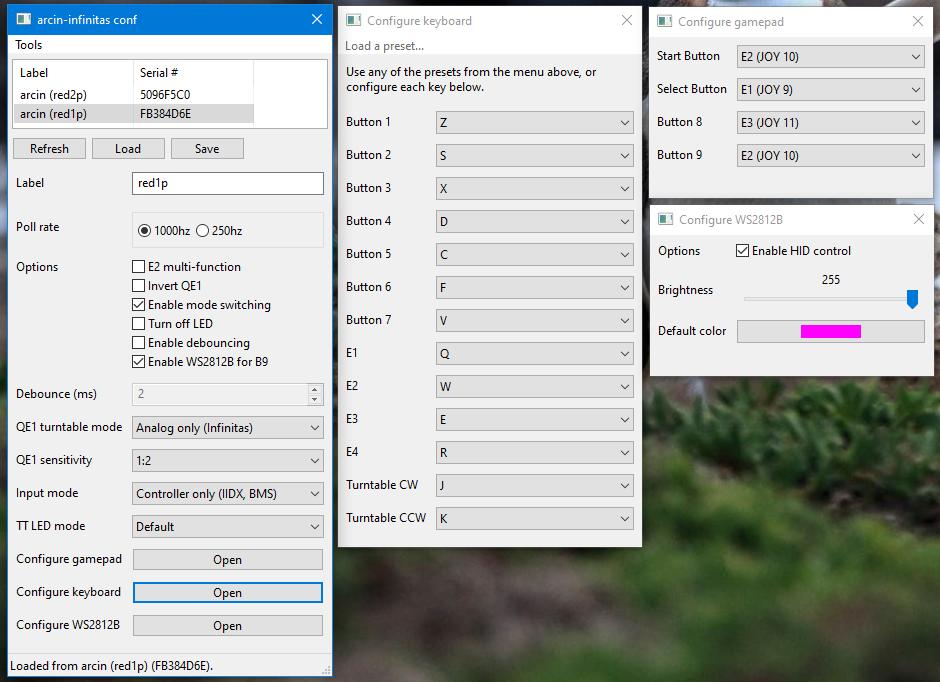
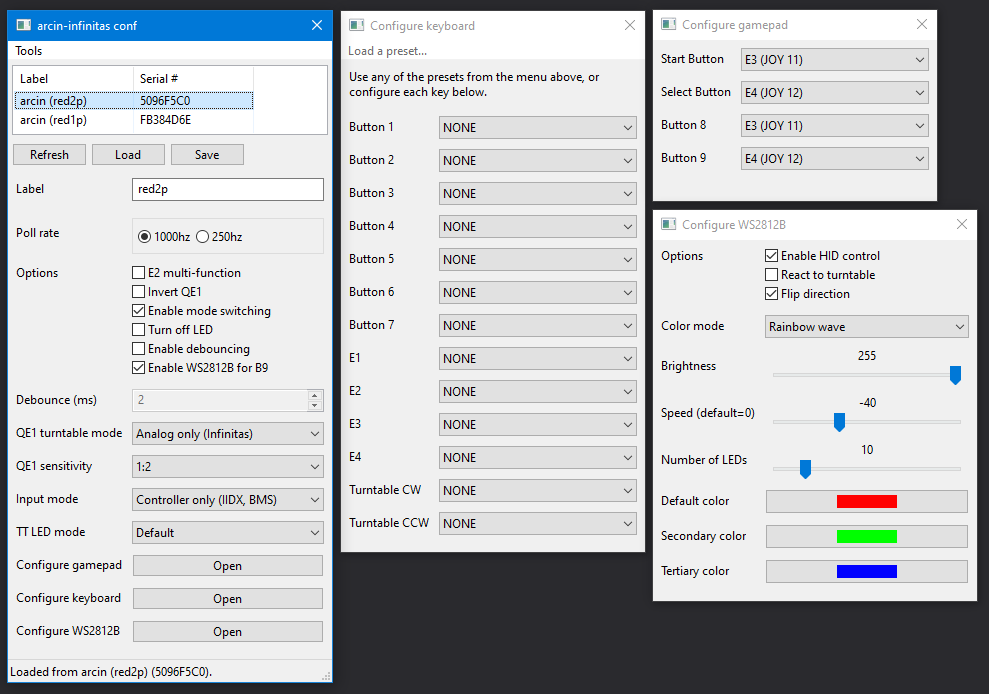
Add more RGB settings (#3)

diff --git a/main.py b/main.py
@@ -14,12 +14,22 @@ ArcinConfig = namedtuple(
     "label flags qe1_sens qe2_sens " +
     "debounce_ticks keycodes " +
     "remap_start_sel remap_b8_b9 "+
-    "rgb_flags rgb_red rgb_green rgb_blue rgb_darkness")
+    "rgb_flags " +
+    "rgb_red rgb_green rgb_blue " +
+    "rgb_darkness " +
+    "rgb_red_2 rgb_green_2 rgb_blue_2 " +
+    "rgb_red_3 rgb_green_3 rgb_blue_3 " +
+    "rgb_mode rgb_num_leds rgb_speed"
+    )
 
-RgbConfig = namedtuple("RgbConfig", "flags red green blue darkness")
+Rgb = namedtuple("Rgb", "r g b")
+
+RgbConfig = namedtuple(
+    "RgbConfig", "flags rgb1 darkness rgb2 rgb3 mode num_leds speed")
 
 ARCIN_CONFIG_VALID_KEYCODES = 13
 ARCIN_RGB_MAX_DARKNESS = 255
+ARCIN_RGB_NUM_LEDS_MAX = 60
 
 # Infinitas controller VID/PID = 0x1ccf / 0x8048
 VID = 0x1ccf
@@ -38,11 +48,14 @@ STRUCT_FMT_EX = (
     "B" +   # uint8 remap_b8_b9
     "2x"+   # uint8 reserved[2]
     "B" +   # uint8 rgb_flags
-    "B" +   # uint8 red
-    "B" +   # uint8 green
-    "B" +   # uint8 blue
+    "BBB" + # uint8 red, green, blue (primary)
     "B" +   # uint8 rgb_darkness
-    "15x")  # uint8 reserved[15]
+    "BBB" + # uint8 red, green, blue (secondary)
+    "BBB" + # uint8 red, green, blue (tertiary)
+    "B" +   # uint8 rgb_mode
+    "B" +   # uint8 rgb_num_leds
+    "b" +   # int8 rgb_speed
+    "6x")  # uint8 reserved[6]
 
 TT_OPTIONS = [
     "Analog only (Infinitas)",
@@ -94,6 +107,16 @@ LED_OPTIONS = [
     "HID-controlled",
 ]
 
+RGB_MODE_OPTIONS = [
+    "Single-color",
+    "Tricolor",
+    "Single-color Rainbow",
+    "Spiral rainbow",
+    "Rainbow wave",
+    "Single-color fade",
+    "Two-color fade",
+]
+
 ARCIN_CONFIG_FLAG_SEL_MULTI_TAP          = (1 << 0)
 ARCIN_CONFIG_FLAG_INVERT_QE1             = (1 << 1)
 # removed in favor of complete remapping of E buttons
@@ -111,6 +134,8 @@ ARCIN_CONFIG_FLAG_TT_LED_HID             = (1 << 12)
 ARCIN_CONFIG_FLAG_WS2812B                = (1 << 13)
 
 ARCIN_RGB_FLAG_ENABLE_HID                = (1 << 0)
+ARCIN_RGB_FLAG_REACT_TO_TT               = (1 << 1)
+ARCIN_RGB_FLAG_FLIP_DIRECTION            = (1 << 2)
 
 def get_devices():
     hid_filter = hid.HidDeviceFilter(vendor_id=VID, product_id=PID)
@@ -163,7 +188,17 @@ def save_to_device(device, conf):
             conf.rgb_red,
             conf.rgb_green,
             conf.rgb_blue,
-            conf.rgb_darkness)
+            conf.rgb_darkness,
+            conf.rgb_red_2,
+            conf.rgb_green_2,
+            conf.rgb_blue_2,
+            conf.rgb_red_3,
+            conf.rgb_green_3,
+            conf.rgb_blue_3,
+            conf.rgb_mode,
+            conf.rgb_num_leds,
+            conf.rgb_speed
+            )
     except:
         return (False, "Format error")
 
@@ -631,14 +666,22 @@ These only take in effect while plugged in; they are reset when unplugged""")
         remap_b8_b9 = (self.remap[2] << 4) | self.remap[3]
 
         rgb_flags = 0
-        rgb_red = 0
-        rgb_green = 0
-        rgb_blue = 0
         rgb_darkness = 0
+        rgb_primary = Rgb(0, 0, 0)
+        rgb_secondary = Rgb(0, 0, 0)
+        rgb_tertiary = Rgb(0, 0, 0)
+        rgb_mode = 0
+        rgb_num_leds = ARCIN_RGB_NUM_LEDS_MAX
+        rgb_speed = 0
         if self.rgb_config:
             rgb_flags = self.rgb_config.flags
-            rgb_red, rgb_green, rgb_blue = self.rgb_config.red, self.rgb_config.green, self.rgb_config.blue
+            rgb_primary = self.rgb_config.rgb1
             rgb_darkness = self.rgb_config.darkness
+            rgb_secondary = self.rgb_config.rgb2
+            rgb_tertiary = self.rgb_config.rgb3
+            rgb_mode = self.rgb_config.mode
+            rgb_num_leds = self.rgb_config.num_leds
+            rgb_speed = self.rgb_config.speed
 
         conf = ArcinConfig(
             label=title,
@@ -650,10 +693,19 @@ These only take in effect while plugged in; they are reset when unplugged""")
             remap_start_sel=remap_start_sel,
             remap_b8_b9=remap_b8_b9,
             rgb_flags=rgb_flags,
-            rgb_red=rgb_red,
-            rgb_green=rgb_green,
-            rgb_blue=rgb_blue,
-            rgb_darkness=rgb_darkness
+            rgb_red=rgb_primary.r,
+            rgb_green=rgb_primary.g,
+            rgb_blue=rgb_primary.b,
+            rgb_darkness=rgb_darkness,
+            rgb_red_2=rgb_secondary.r,
+            rgb_green_2=rgb_secondary.g,
+            rgb_blue_2=rgb_secondary.b,
+            rgb_red_3=rgb_tertiary.r,
+            rgb_green_3=rgb_tertiary.g,
+            rgb_blue_3=rgb_tertiary.b,
+            rgb_mode=rgb_mode,
+            rgb_num_leds=rgb_num_leds,
+            rgb_speed=rgb_speed
         )
 
         return conf
@@ -727,7 +779,15 @@ These only take in effect while plugged in; they are reset when unplugged""")
         self.remap[3] = conf.remap_b8_b9 & 0xF
 
         self.rgb_config = RgbConfig(
-            conf.rgb_flags, conf.rgb_red, conf.rgb_green, conf.rgb_blue, conf.rgb_darkness)
+            conf.rgb_flags,
+            Rgb(conf.rgb_red, conf.rgb_green, conf.rgb_blue),
+            conf.rgb_darkness,
+            Rgb(conf.rgb_red_2, conf.rgb_green_2, conf.rgb_blue_2),
+            Rgb(conf.rgb_red_3, conf.rgb_green_3, conf.rgb_blue_3),
+            conf.rgb_mode,
+            conf.rgb_num_leds,
+            conf.rgb_speed
+            )
 
     def __populate_device_list__(self):
         if self.devices_list is None:
@@ -1032,17 +1092,32 @@ class RemapperWindowFrame(wx.Frame):
         ]
         return remap
 
+def wxcolour_from_rgb(rgb):
+    return wx.Colour(rgb.r, rgb.g, rgb.b)
+
+def rgb_from_Wxcolour(wxcolour):
+    return Rgb(wxcolour.red, wxcolour.green, wxcolour.blue)
+
 class RgbWindowFrame(wx.Frame):
 
     panel = None
     grid = None
 
     hid_rgb_check = None
-    rgb_button = None
+    qe1_react_check = None
+    flip_direction_check = None
+
+    rgb1_button = None
+    rgb2_button = None
+    rgb3_button = None
+
+    led_mode_ctrl = None
     intensity_slider = None
+    num_leds_slider = None
+    speed_slider = None
 
     def __init__(self, *args, **kw):
-        default_size = (300, 180)
+        default_size = (340, 400)
         kw['size'] = default_size
         kw['style'] = (
             wx.RESIZE_BORDER |
@@ -1073,18 +1148,56 @@ class RgbWindowFrame(wx.Frame):
         self.grid.Add(checklist_box, pos=(row, 1), flag=wx.EXPAND)
         row += 1
 
+        led_mode_label = wx.StaticText(self.panel, label="Color mode")
+        self.led_mode_ctrl = wx.Choice(self.panel, choices=RGB_MODE_OPTIONS)
+        self.led_mode_ctrl.Select(0)
+        self.grid.Add(led_mode_label, pos=(row, 0), flag=wx.ALIGN_CENTER_VERTICAL)
+        self.grid.Add(self.led_mode_ctrl, pos=(row, 1), flag=wx.EXPAND)
+        row += 1
+
         intensity_label = wx.StaticText(self.panel, label="Brightness")
         self.intensity_slider = wx.Slider(
             self.panel, style=wx.SL_VALUE_LABEL, minValue=0, maxValue=ARCIN_RGB_MAX_DARKNESS)
         self.intensity_slider.SetTickFreq = 1
+        self.intensity_slider.SetValue(ARCIN_RGB_MAX_DARKNESS)
         self.grid.Add(intensity_label, pos=(row, 0), flag=wx.ALIGN_CENTER_VERTICAL)
         self.grid.Add(self.intensity_slider, pos=(row, 1), flag=wx.EXPAND)
         row += 1
 
+        speed_label = wx.StaticText(self.panel, label="Speed (default=0)")
+        self.speed_slider = wx.Slider(
+            self.panel, style=wx.SL_VALUE_LABEL, minValue=-128, maxValue=127)
+        self.speed_slider.SetTickFreq = 1
+        self.speed_slider.SetValue(0)
+        self.grid.Add(speed_label, pos=(row, 0), flag=wx.ALIGN_CENTER_VERTICAL)
+        self.grid.Add(self.speed_slider, pos=(row, 1), flag=wx.EXPAND)
+        row += 1
+
+        num_leds_label = wx.StaticText(self.panel, label="Number of LEDs")
+        self.num_leds_slider = wx.Slider(
+            self.panel, style=wx.SL_VALUE_LABEL, minValue=1, maxValue=ARCIN_RGB_NUM_LEDS_MAX)
+        self.num_leds_slider.SetTickFreq = 1
+        self.num_leds_slider.SetValue(ARCIN_RGB_NUM_LEDS_MAX)
+        self.grid.Add(num_leds_label, pos=(row, 0), flag=wx.ALIGN_CENTER_VERTICAL)
+        self.grid.Add(self.num_leds_slider, pos=(row, 1), flag=wx.EXPAND)
+        row += 1
+
         rgb_label = wx.StaticText(self.panel, label="Default color")
-        self.rgb_button = wx.ColourPickerCtrl(self.panel)
+        self.rgb1_button = wx.ColourPickerCtrl(self.panel)
         self.grid.Add(rgb_label, pos=(row, 0), flag=wx.ALIGN_CENTER_VERTICAL)
-        self.grid.Add(self.rgb_button, pos=(row, 1), flag=wx.EXPAND)
+        self.grid.Add(self.rgb1_button, pos=(row, 1), flag=wx.EXPAND)
+        row += 1
+
+        rgb_label = wx.StaticText(self.panel, label="Secondary color")
+        self.rgb2_button = wx.ColourPickerCtrl(self.panel)
+        self.grid.Add(rgb_label, pos=(row, 0), flag=wx.ALIGN_CENTER_VERTICAL)
+        self.grid.Add(self.rgb2_button, pos=(row, 1), flag=wx.EXPAND)
+        row += 1
+
+        rgb_label = wx.StaticText(self.panel, label="Tertiary color")
+        self.rgb3_button = wx.ColourPickerCtrl(self.panel)
+        self.grid.Add(rgb_label, pos=(row, 0), flag=wx.ALIGN_CENTER_VERTICAL)
+        self.grid.Add(self.rgb3_button, pos=(row, 1), flag=wx.EXPAND)
         row += 1
     
         box.Add(self.grid, 1, flag=(wx.EXPAND | wx.ALL), border=8)
@@ -1093,20 +1206,48 @@ class RgbWindowFrame(wx.Frame):
         if rgb_config is not None:
             self.populate_ui(rgb_config)
 
-    def populate_ui(self, rgb):
-        self.hid_rgb_check.SetValue(bool(rgb.flags & ARCIN_RGB_FLAG_ENABLE_HID))
-        self.rgb_button.SetColour(wx.Colour(rgb.red, rgb.green, rgb.blue))
-        self.intensity_slider.SetValue(ARCIN_RGB_MAX_DARKNESS - rgb.darkness)
+    def populate_ui(self, config):
+        self.hid_rgb_check.SetValue(bool(config.flags & ARCIN_RGB_FLAG_ENABLE_HID))
+        self.qe1_react_check.SetValue(bool(config.flags & ARCIN_RGB_FLAG_REACT_TO_TT))
+        self.flip_direction_check.SetValue(bool(config.flags & ARCIN_RGB_FLAG_FLIP_DIRECTION))
+        self.intensity_slider.SetValue(ARCIN_RGB_MAX_DARKNESS - config.darkness)
+        self.rgb1_button.SetColour(wxcolour_from_rgb(config.rgb1))
+        self.rgb2_button.SetColour(wxcolour_from_rgb(config.rgb2))
+        self.rgb3_button.SetColour(wxcolour_from_rgb(config.rgb3))
+        self.led_mode_ctrl.Select(config.mode)
+        if config.num_leds == 0:
+            self.num_leds_slider.SetValue(ARCIN_RGB_NUM_LEDS_MAX)
+        else:
+            self.num_leds_slider.SetValue(config.num_leds)
+
+        self.speed_slider.SetValue(config.speed)        
         pass
 
     def extract_from_ui(self):
         flags = 0
         if self.hid_rgb_check.IsChecked():
             flags |= ARCIN_RGB_FLAG_ENABLE_HID
+        if self.qe1_react_check.IsChecked():
+            flags |= ARCIN_RGB_FLAG_REACT_TO_TT
+        if self.flip_direction_check.IsChecked():
+            flags |= ARCIN_RGB_FLAG_FLIP_DIRECTION
 
-        rgb = self.rgb_button.GetColour()
         intensity = ARCIN_RGB_MAX_DARKNESS - self.intensity_slider.GetValue()
-        return RgbConfig(flags, rgb.red, rgb.green, rgb.blue, intensity)
+
+        rgb1 = self.rgb1_button.GetColour()
+        rgb2 = self.rgb2_button.GetColour()
+        rgb3 = self.rgb3_button.GetColour()
+
+        return RgbConfig(
+            flags,
+            rgb_from_Wxcolour(rgb1),
+            intensity,
+            rgb_from_Wxcolour(rgb2),
+            rgb_from_Wxcolour(rgb3),
+            self.led_mode_ctrl.GetSelection(),
+            self.num_leds_slider.GetValue(),
+            self.speed_slider.GetValue(),
+            )
 
     def __create_checklist__(self, parent):
         box_kw = {
@@ -1116,9 +1257,18 @@ class RgbWindowFrame(wx.Frame):
         }
 
         box = wx.BoxSizer(wx.VERTICAL)
+
         self.hid_rgb_check = wx.CheckBox(parent, label="Enable HID control")
-        self.hid_rgb_check.SetToolTip("Allow HID to directly control RGB values.")
-        box.Add(self.hid_rgb_check, **box_kw)\
+        self.hid_rgb_check.SetToolTip("Allow HID to directly control RGB values when enabled.")
+        box.Add(self.hid_rgb_check, **box_kw)
+
+        self.qe1_react_check = wx.CheckBox(parent, label="React to turntable")
+        self.qe1_react_check.SetToolTip("Behavior depends on the color algorithm.")
+        box.Add(self.qe1_react_check, **box_kw)
+
+        self.flip_direction_check = wx.CheckBox(parent, label="Flip direction")
+        self.flip_direction_check.SetToolTip("Flip direction of color algorithm.")
+        box.Add(self.flip_direction_check, **box_kw)
 
         return box
 
